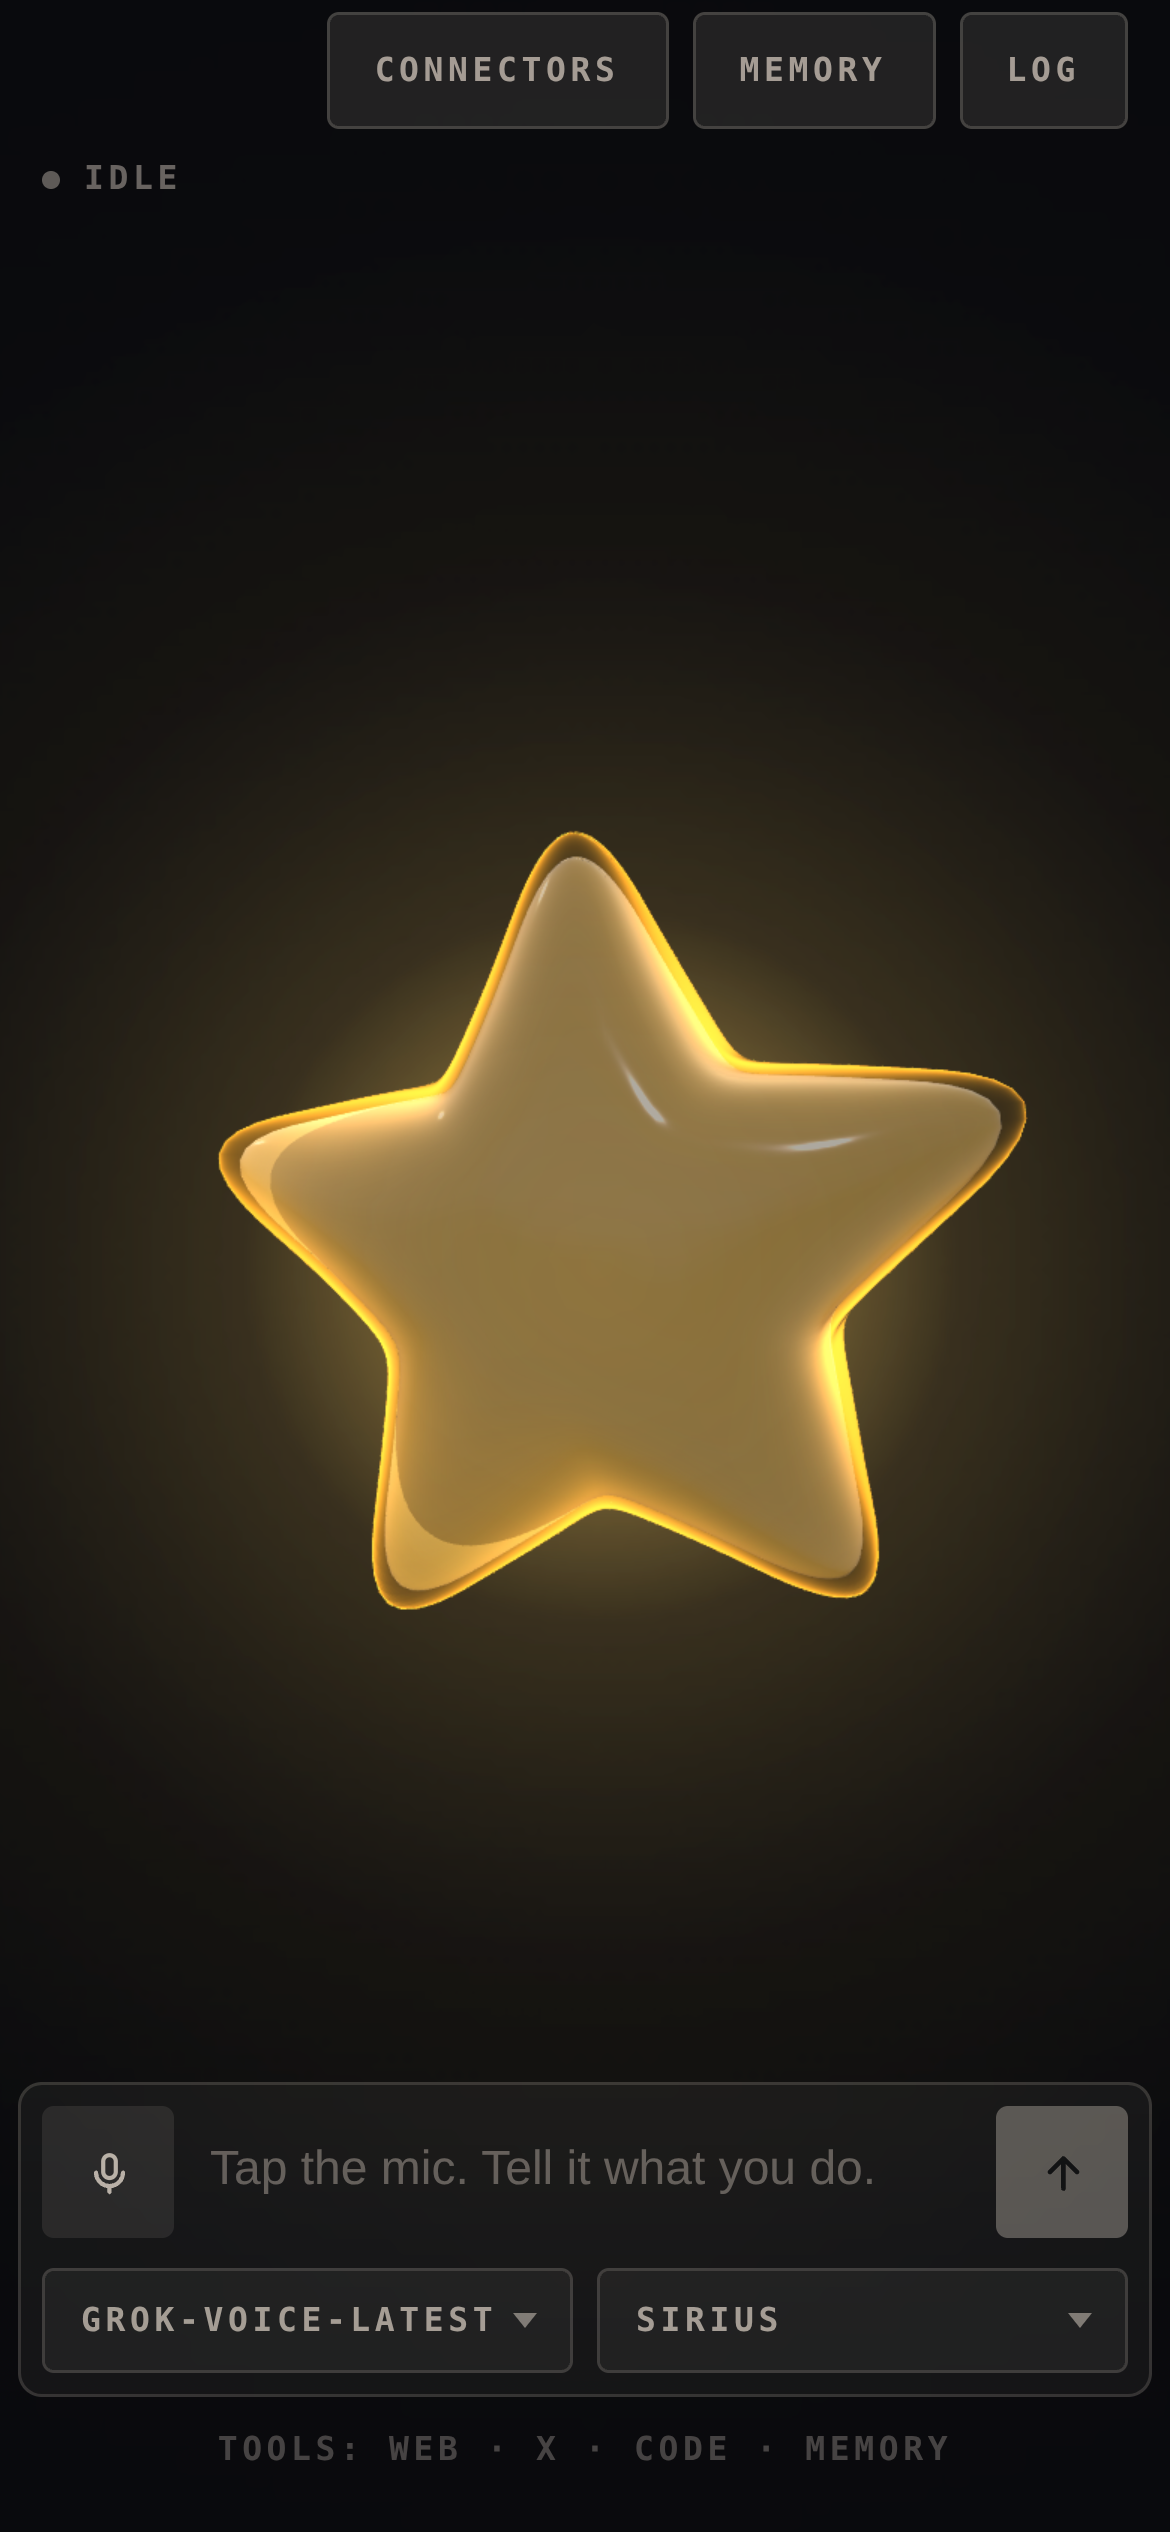
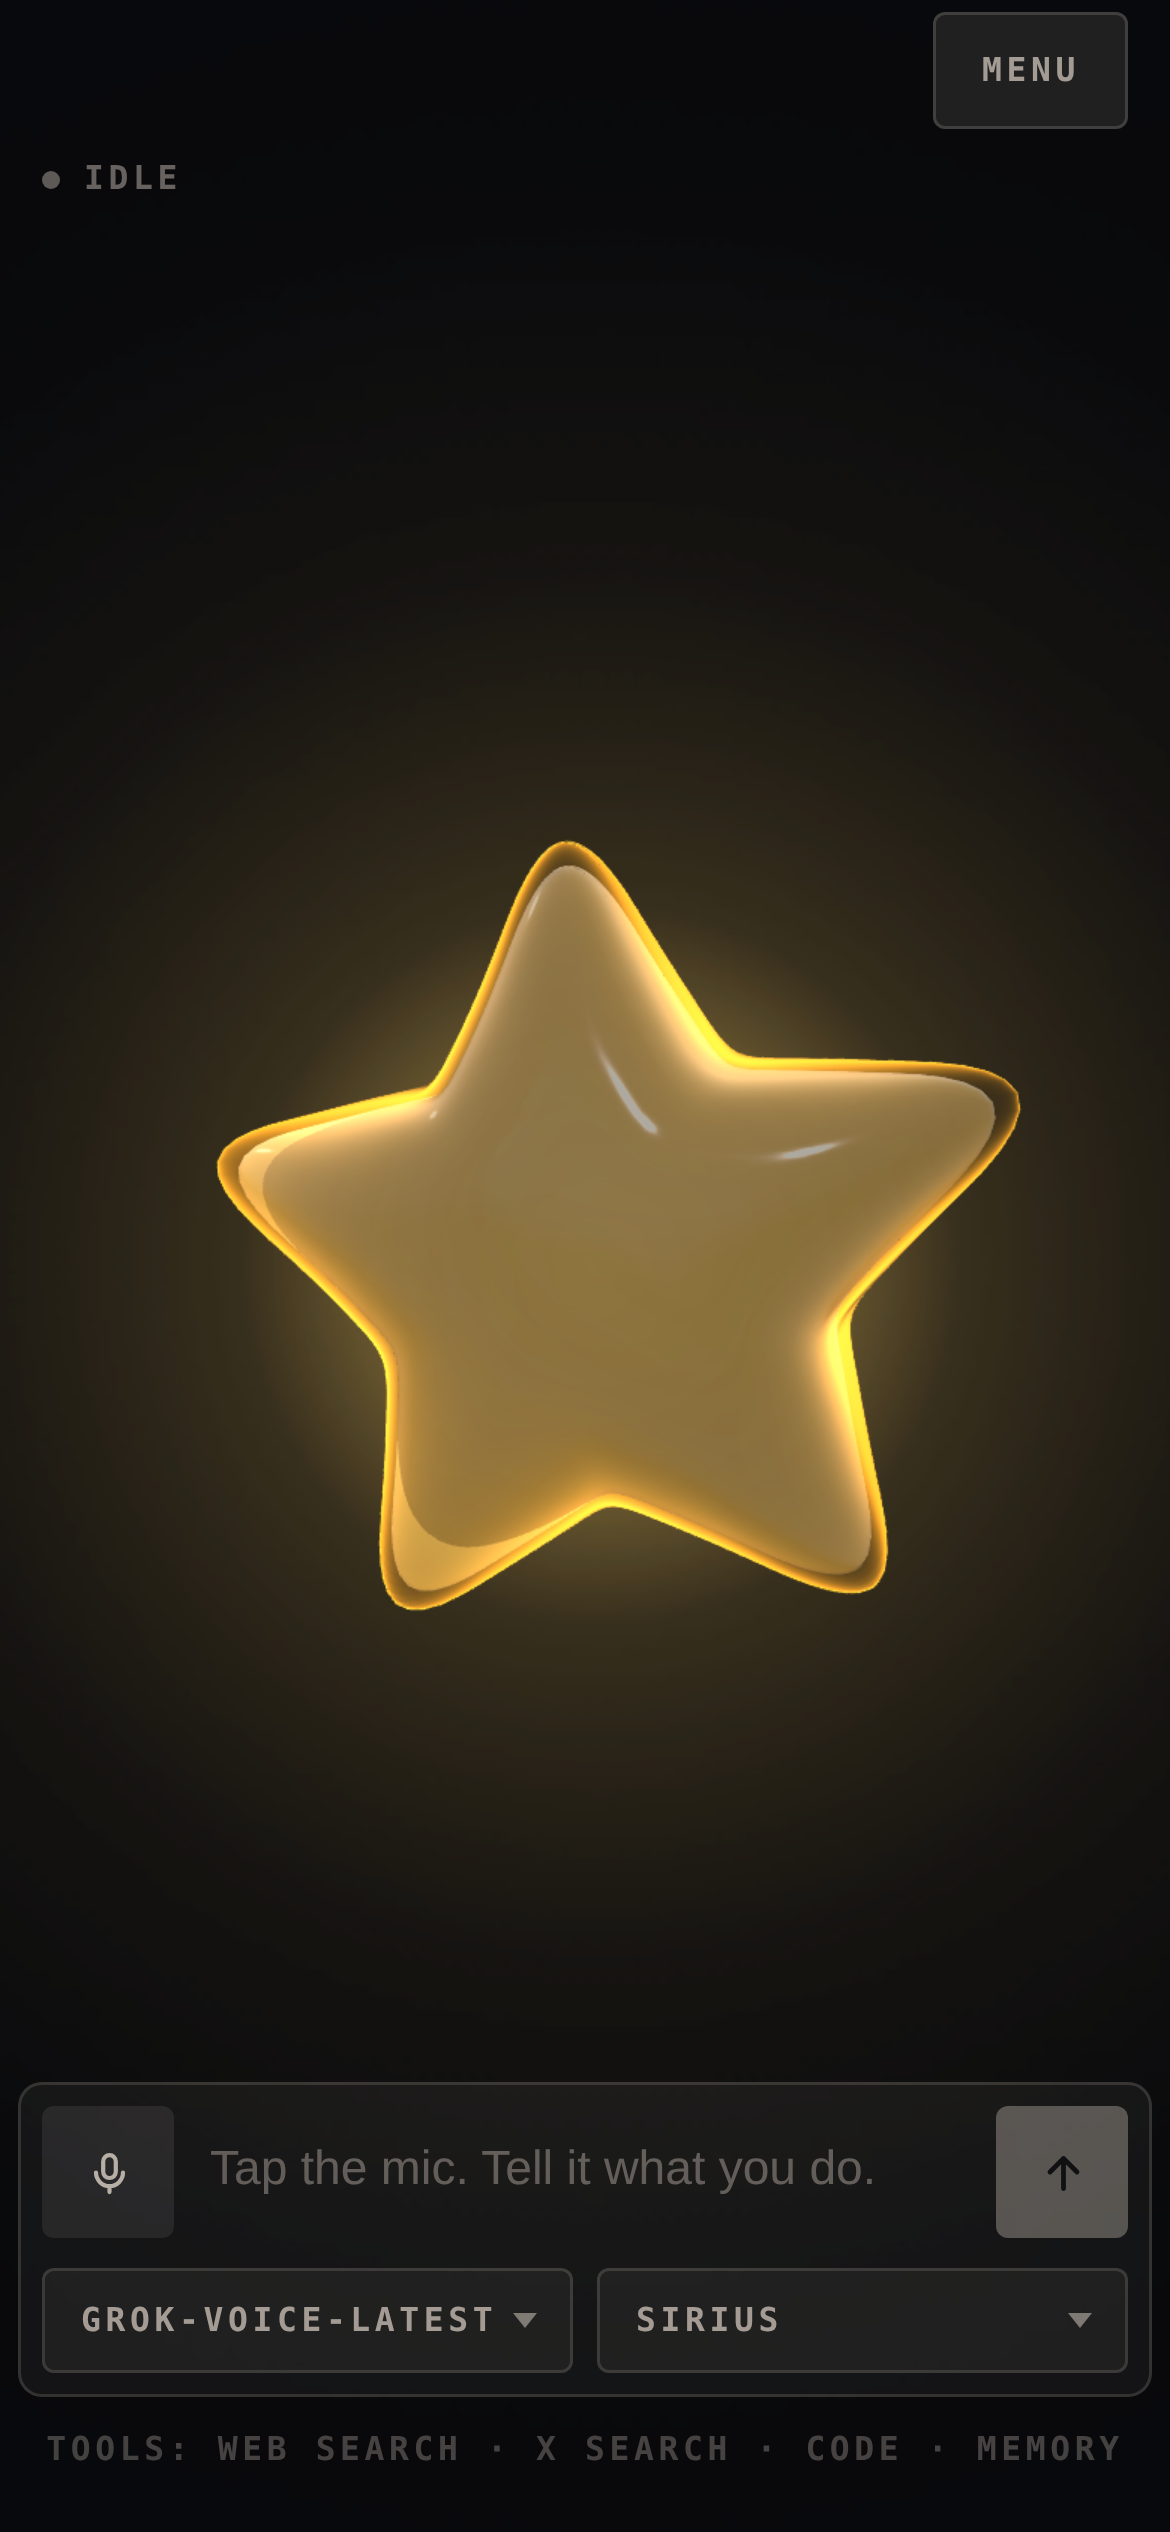
Retake the screenshots with the menu in the corner
Shot against each app's own server, so the pickers and the tool chip are
filled rather than erroring: a fake key, and the model list stubbed for the
OpenAI ones. The desktop shot has the menu dropped open; the phone one
leaves it shut, which is where the row of buttons used to run into the
status chip.

Claude-Session: https://claude.ai/code/session_01Eb1EqQoF4S7A45J7d3yJdK

diff --git a/README.md b/README.md
@@ -14,7 +14,7 @@ task up, dispatches it to **Claude Code**, **Codex**, **OpenCode** or **Grok
 Build** running on this machine, and tells you when it lands — while the call
 carries on.
 
-![Star mid-sentence, with a dispatch to Claude Code just read back](docs/screenshots/desktop.png)
+![Star at rest in a desktop browser, with the menu open](docs/screenshots/desktop.png)
 
 <p align="center">
   <img src="docs/screenshots/mobile.png" alt="Vibey on a phone" width="300">
